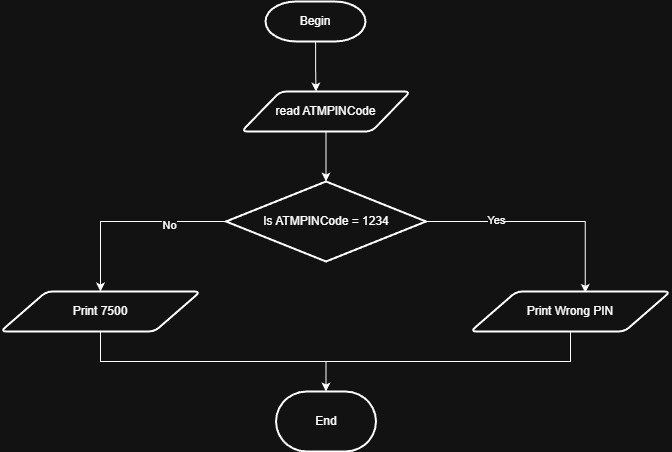
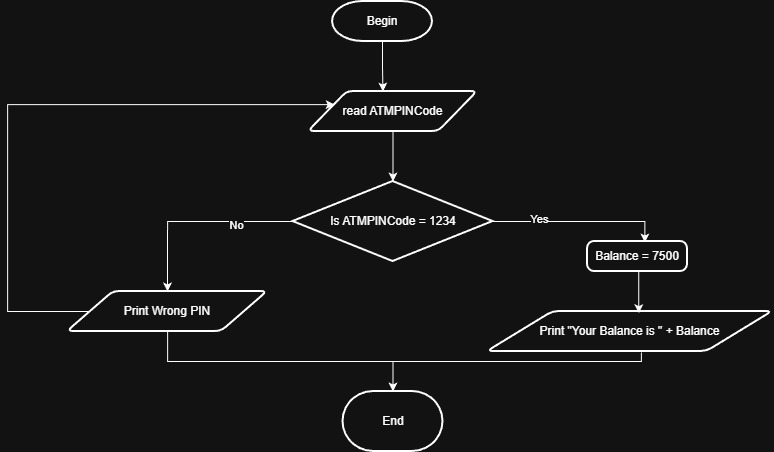
Fix Logic after the decision box: swap the the yes and no branches and create a loop if wrong PIN is input

diff --git a/problem_49/README.md b/problem_49/README.md
@@ -49,4 +49,4 @@ The time complexity is **$O(N)$**, where $N$ is the number of attempts the user 
 
 ## Solution
 
-![alt text](ATMPIN.jpg)
+![alt text](ATMPIN-1.jpg)
